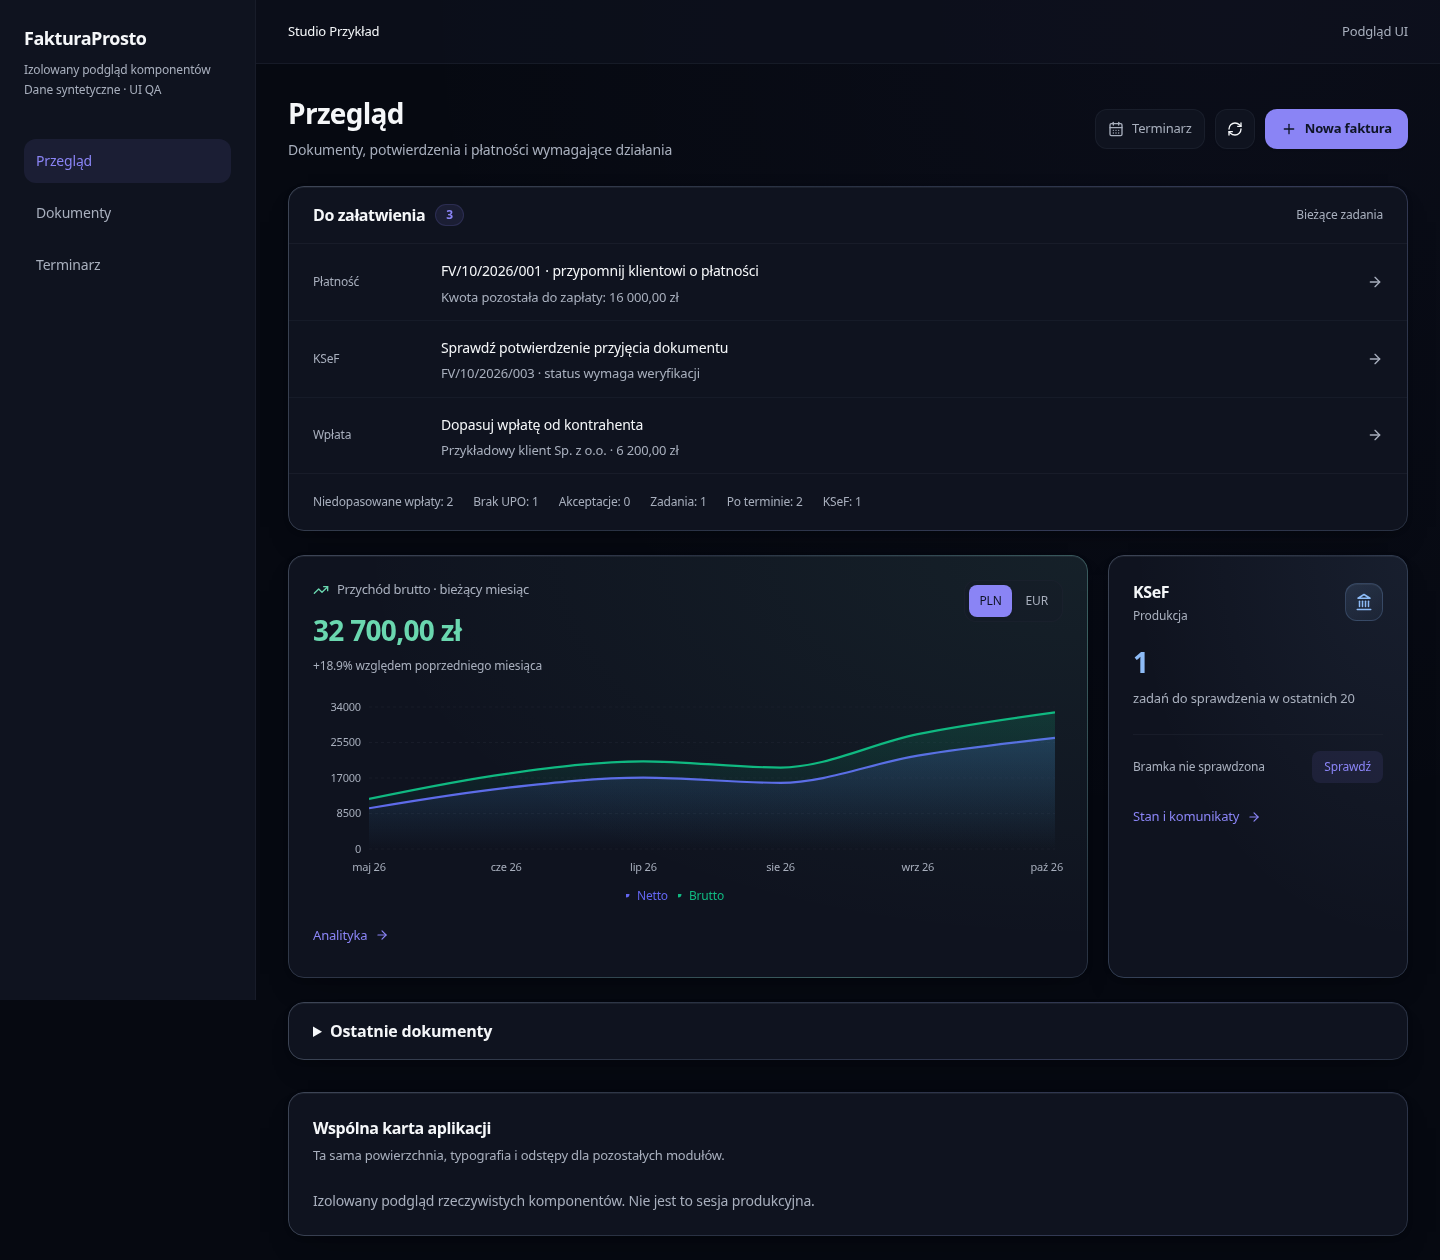
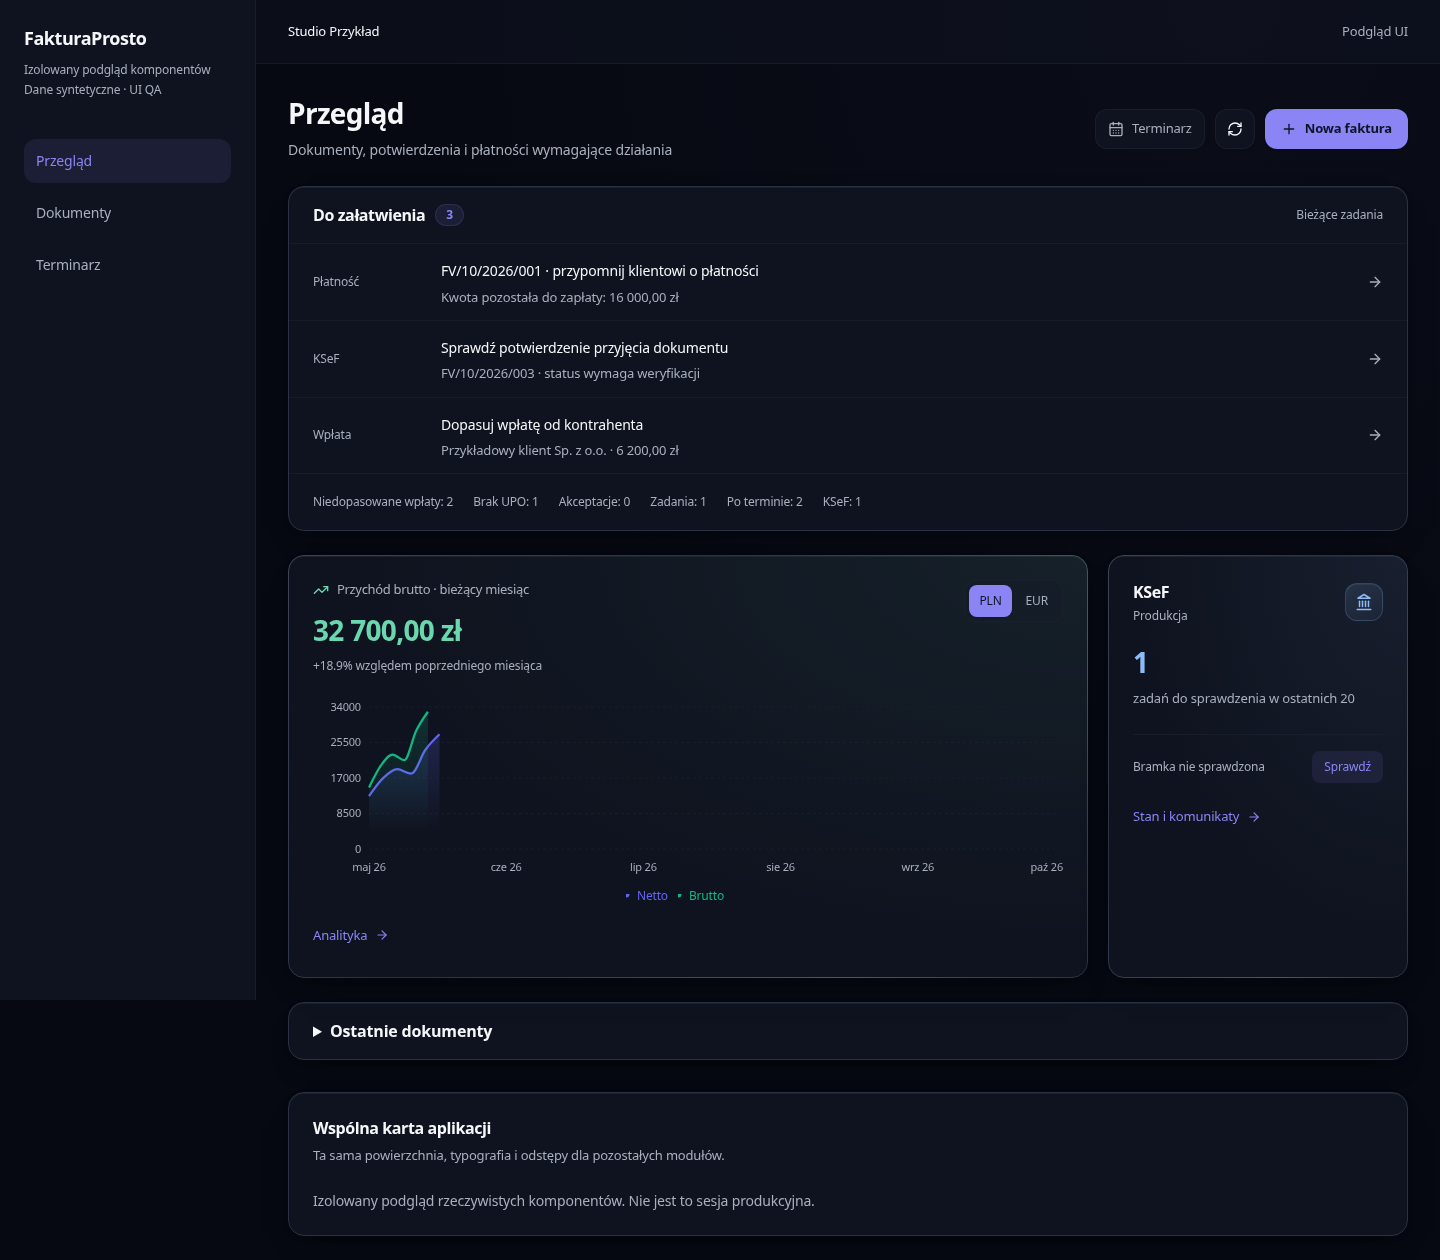
Preserve form card positioning and scope gradient layers to financial widgets

Changed region(s): [[0.25, 0.5571, 0.75, 0.65]]

diff --git a/src/app/globals.css b/src/app/globals.css
@@ -549,7 +549,6 @@ video {
     --surface-accent: var(--primary);
     --surface-tint: 0;
     --surface-accent-edge: 0.12;
-    position: relative;
     border: 1px solid hsl(var(--surface-edge));
     border-radius: 16px;
     background-color: hsl(var(--card));
@@ -560,7 +559,7 @@ video {
     transition: border-color 200ms ease, box-shadow 200ms ease, transform 200ms ease;
   }
 
-  :is(.surface-card, .surface-card-hover)::before {
+  :is(.surface-card, .surface-card-hover)[data-tone]::before {
     content: "";
     position: absolute;
     inset: -1px;
@@ -576,6 +575,8 @@ video {
   }
 
   :is(.surface-card, .surface-card-hover)[data-tone] {
+    /* Keep form cards in their established containing block. */
+    position: relative;
     --surface-tint: 0.045;
     --surface-accent-edge: 0.28;
   }

diff --git a/docs/audit/2026-10-13/UI-FINANCE-POLISH.md b/docs/audit/2026-10-13/UI-FINANCE-POLISH.md
@@ -4,7 +4,7 @@ Baza zmian: `2d4bba5ef2f920c5090314e5550b2d4c8ad3044a`. Zakres obejmuje warstwę
 
 ## Poprawki
 
-- Wspólny `Card` i panele dashboardu korzystają z jednej powierzchni: neutralna krawędź, cienki gradient obramowania, wewnętrzny refleks oraz miękki cień. Dekoracja nie przechwytuje kliknięć i nie wymaga przycinania zawartości ani menu.
+- Wspólny `Card` i panele dashboardu korzystają z jednej powierzchni: neutralna krawędź, wewnętrzny refleks oraz miękki cień. Oznaczone karty finansowe dodatkowo mają cienki gradient obramowania. Dekoracja nie przechwytuje kliknięć i nie wymaga przycinania zawartości ani menu.
 - Warianty finansowe skupiają delikatną poświatę przy ikonie: zieleń wpływów, róż wydatków, fiolet bilansu i niebieski urzędów. Zamiast jaskrawych kwot wprowadzono semantyczne kolory dopasowane oddzielnie do jasnego i ciemnego motywu. Ostrzeżenia o terminie mają czytelny odcień bursztynu.
 - Naprawiono brakujące odstępy i cienie. Terminarz używa rzeczywistego paddingu 20–24 px; konfiguracja udostępnia także używane w innych widokach `4.5`, `shadow-2xs`, `shadow-xs` i `shadow-apple-*`.
 - Ujednolicono nagłówki stron, odstępy powłoki aplikacji, przejścia przycisków i widoczny fokus w nawigacji. Liczby mają cyfry o stałej szerokości; opisy i etykiety finansowe mają 12–14 px. Długie nazwy podatków i dokumentów zawijają się.
@@ -13,6 +13,7 @@ Baza zmian: `2d4bba5ef2f920c5090314e5550b2d4c8ad3044a`. Zakres obejmuje warstwę
 - Hover widgetów rozjaśnia krawędź i unosi kartę o 2 px wyłącznie na urządzeniach z precyzyjnym wskaźnikiem i obsługą hover. Preferencja ograniczenia ruchu wyłącza przesunięcia.
 - Filtry i daty ujawniają stan przez `aria-pressed`; daty mają pełne etykiety i obsługę strzałek, Home oraz End. Dolne akcje terminarza są pojedynczymi linkami, bez zagnieżdżonych przycisków i dodatkowych punktów fokusu.
 - Wielkość kwot 20–26 px zależy od dostępnej szerokości karty. Duże kwoty zawijają się pomiędzy grupami cyfr, a jednostka `zł` pozostaje w całości. Zachowano klasę `bg-card` wspólnego komponentu, aby utrzymać zgodność jego istniejących konsumentów i audytu kontrastu.
+- Po pełnym audycie WebKit przywrócono zwykłym kartom statyczne pozycjonowanie z wersji bazowej. Warstwa gradientowa i jej pozycjonowanie dotyczą wyłącznie oznaczonych kart finansowych, aby dekoracja nie zmieniała bloków odniesienia ukrytych elementów formularzy. Nie dodano globalnego przycinania strony ani menu.
 
 ## Walidacja
 
